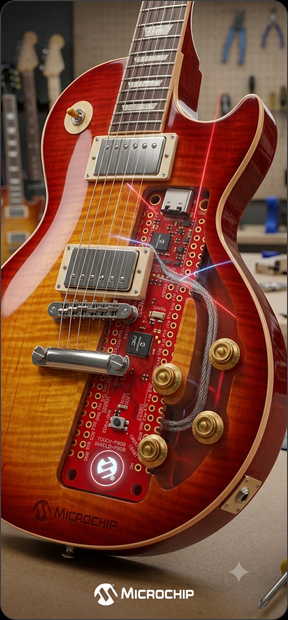
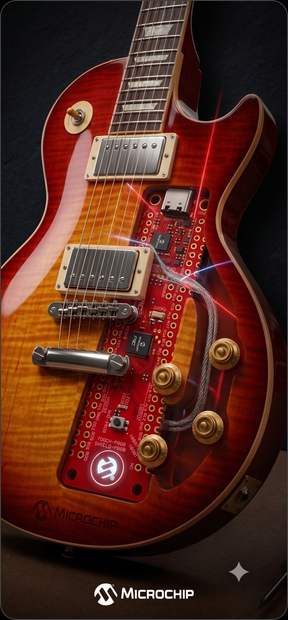
marvin: new guitar render, and it retires the asset closest to the decode ceiling
Source swapped for a new full-res render, downscaled to the 576x1240 convention
and reprocessed. The other seven outputs came back byte-identical, confirming
idempotence over untouched sources for the second run in a row — which is what
makes a single-photo swap safe.

guitar.png had been the largest asset at 322,163 B, 61% of decode_one's 512 KiB
SCRATCH_BYTES; the new one is 285 KiB. lightshow now tops the set at 302 KiB, so
every slot sits at ~59% of the ceiling or below.

diff --git a/firmware/marvin/docs/journal.md b/firmware/marvin/docs/journal.md
@@ -9,9 +9,9 @@ Running log of planning, decisions, open questions, and work-in-progress for mar
 - **`process_node_photos.py`'s `NODES` list never gained `guitar-pic`**, so the project card's photo was dropped on the floor with no diagnostic — it isn't a node, and the tool's list was written before the card existed. The `PHOTO` table in `ui/node_art.c` is the contract and the tool now mirrors all eight entries. Worth noting the failure shape: an unlisted name is not reported as "no source for", because the loop only walks names it knows, so the card would just have read blank on hardware with nothing anywhere saying why.
 - **`--fit cover` for every source, and `contain` would have been visibly wrong.** All the new renders arrived pre-framed portrait at 1408×3040 — aspect 0.4632 against the column's 0.4645 — so `contain` scales to **287** px wide and leaves a 1 px zinc-900 stripe down one edge of the frame; `cover` crops ~4 px of height instead and fills the rect exactly. This is the case the README's "already framed portrait" note is for.
 - **`marvin.png` came in RGBA, which the pipeline flattens rather than composites.** Its alpha was uniformly 255 so nothing was lost, but that was checked, not assumed: `render()` does `convert("RGB")`, which **discards** an alpha channel without compositing it over anything, so a source with real transparency would land with its transparent regions showing whatever garbage RGB sat under the alpha. If a future source has a non-opaque alpha it needs an explicit composite onto `ZINC_900` first.
-- **The "keep the originals in the repo" rule from the 2026-08-06 (night) entry is now bounded to 2× the slot, not full resolution.** Six full-res renders are 42 MB and `.git` is already 596 MB, so the committed sources are `576×1240` (5.5 MB total) — headroom for a re-crop or a fit-mode change, which is what that rule was actually for, without the repo carrying a photo archive. The full-res files are **not** in history; they exist only on Greg's disk. `guitar.png` (704×1520) and `lemmy.png` (288×620) were left as-is, being already small and already committed — note `lemmy`'s replacement source is now exactly slot-sized, so it has **no** re-fit headroom at all.
+- **The "keep the originals in the repo" rule from the 2026-08-06 (night) entry is now bounded to 2× the slot, not full resolution.** Six full-res renders are 42 MB and `.git` is already 596 MB, so the committed sources are `576×1240` (5.5 MB total) — headroom for a re-crop or a fit-mode change, which is what that rule was actually for, without the repo carrying a photo archive. The full-res files are **not** in history; they exist only on Greg's disk. `lemmy.png` (288×620) was left as-is, being already small and already committed — note it is now exactly slot-sized, so it has **no** re-fit headroom at all. `guitar` arrived at 704×1520 and was likewise left alone, then replaced mid-session with a full-res render and brought onto the 576×1240 convention with the rest.
 - **Outputs were regenerated from the downscaled sources**, not kept from the full-res pass, so the committed inputs actually reproduce the committed outputs. The quality difference is nil — a 2× LANCZOS box down to 288×620 versus 4.9×.
-- **`guitar.png` came back byte-identical at 322,163 B for the second time**, re-confirming the pass is idempotent over an untouched source. It remains the largest asset and the one to watch: **61% of `decode_one`'s 512 KiB `SCRATCH_BYTES`**. The seven new outputs run 201–302 KiB, all comfortably under, and overshooting is a silent blank frame behind a `NODEART:` warning.
+- **Idempotence over untouched sources was confirmed twice**, which is what makes a single-photo swap safe: `guitar` was then replaced with a new render and reprocessed, and the other seven outputs came back byte-identical. That swap also **retired the asset we had been watching** — `guitar.png` was 322,163 B, 61% of `decode_one`'s 512 KiB `SCRATCH_BYTES`, and the new one is 285 KiB. `lightshow` is now the largest at 302 KiB, so the whole set sits at ~59% of the ceiling or below. Overshooting it is a silent blank frame behind a `NODEART:` warning, so it stays worth tracking.
 
 ---
 
